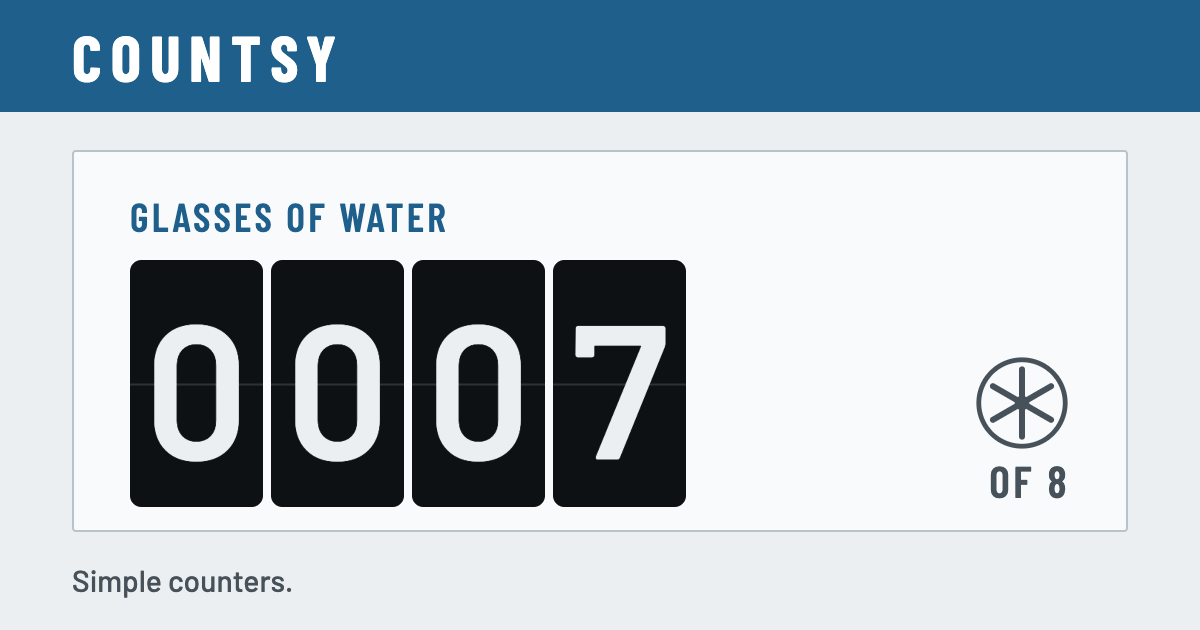
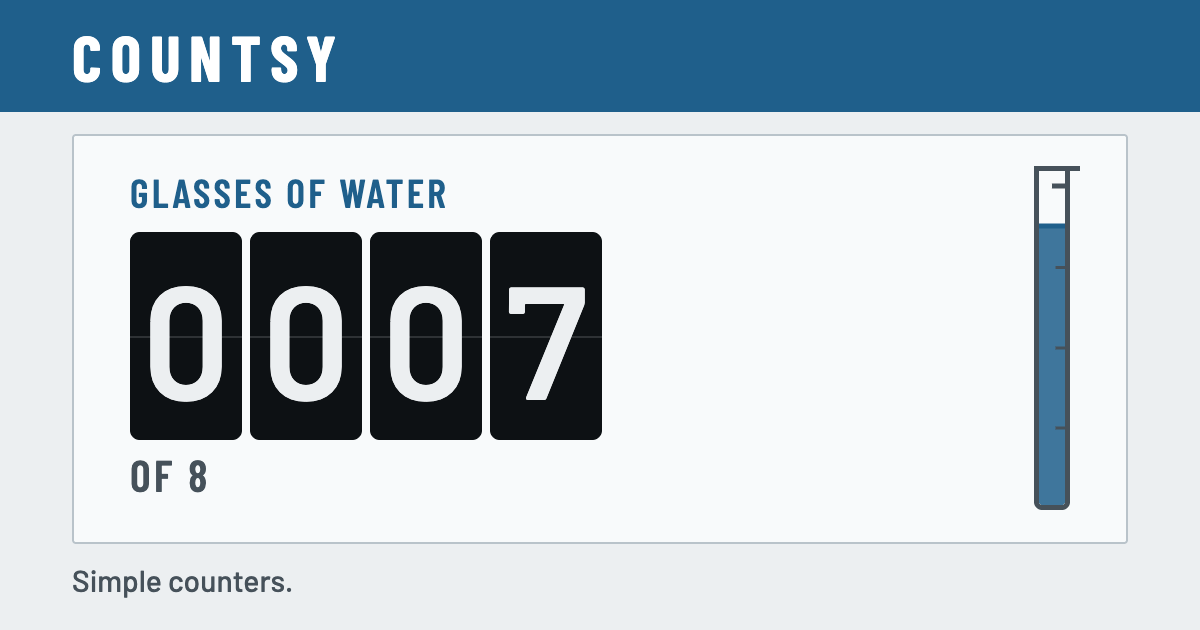
feat(brand): swap wheel mark for glass gauge
The goal indicator is now a glass gauge, so bring the brand assets
in line and drop the last uses of the star-wheel.

- Favicon: a white open-topped glass with a lip, two-thirds full, on
  the meter-blue tile; checked for legibility at 16px.
- Social image: re-render og-image.png with the card laid out like
  the real one, with the glass down the right edge filled to 7 of 8.
- design.json: Goal Gauge component and the gauge-level motion
  replace Flow Indicator and meter-spin; the narrative matches
  DESIGN.md.
- DESIGN.md and PROVENANCE.md describe the new favicon and record
  the redraw.

Sites that cache link previews may keep the old image for a while.

Changed region(s): [[0.0617, 0.2111, 0.9558, 0.8746]]

diff --git a/.impeccable/assets/og-image.html b/.impeccable/assets/og-image.html
@@ -8,25 +8,38 @@
 *{box-sizing:border-box;margin:0}
 body{width:1200px;height:630px;background:#eceff1;color:#14181c;font-family:"Barlow",sans-serif;overflow:hidden}
 .plate{height:112px;background:#1f5f8b;color:#fff;display:flex;align-items:center;padding:0 72px;font:700 64px "Barlow Condensed";letter-spacing:.14em;text-transform:uppercase}
-.card{position:absolute;left:72px;top:150px;width:1056px;height:382px;background:#f8fafb;border:2px solid #b9c3ca;border-radius:4px;padding:40px 56px}
+.card{position:absolute;left:72px;top:134px;width:1056px;height:410px;background:#f8fafb;border:2px solid #b9c3ca;border-radius:4px;padding:32px 56px}
 .label{font:600 40px "Barlow Condensed";letter-spacing:.08em;text-transform:uppercase;color:#1f5f8b}
-.row{display:flex;align-items:flex-end;justify-content:space-between;margin-top:20px}
-.tiles{display:flex;gap:8px;font:600 190px/1 "Barlow";font-variant-numeric:tabular-nums}
+.card{display:flex;gap:56px}
+.main{flex:1}
+.tiles{display:flex;gap:8px;margin-top:16px;font:600 160px/1 "Barlow";font-variant-numeric:tabular-nums}
 .tile{position:relative;width:.7em;height:1.3em;background:#0d1114;color:#eceff1;display:flex;align-items:center;justify-content:center;border-radius:.06em;overflow:hidden}
 .tile:after{content:"";position:absolute;left:0;right:0;top:50%;height:2px;background:rgba(236,239,241,.15)}
-.side{text-align:right;color:#46515a}
-.side .of{font:600 44px "Barlow Condensed";letter-spacing:.08em;text-transform:uppercase}
+.of{margin-top:8px;font:600 44px "Barlow Condensed";letter-spacing:.08em;text-transform:uppercase;color:#46515a}
+.glass{position:relative;width:36px;height:100%}
+.glass .water{position:absolute;left:0;right:0;bottom:0;background:rgba(31,95,139,.85);border-top:5px solid #1f5f8b}
+.glass:before{content:"";position:absolute;inset:0;border:5px solid #46515a;border-top:0;border-radius:0 0 8px 8px;z-index:1}
+.glass .water{left:5px;right:5px;bottom:5px;border-radius:0 0 3px 3px}
+.lip{position:absolute;top:-2px;left:0;right:-10px;height:5px;background:#46515a}
+.brim{position:absolute;right:0;bottom:94%;width:50%;height:5px;background:#46515a}
+.tick{position:absolute;right:0;width:40%;height:3px;background:#46515a}
 .tag{position:absolute;left:72px;bottom:32px;font:500 30px "Barlow";color:#46515a}
 </style></head><body>
 <div class="plate">Countsy</div>
 <div class="card">
-  <div class="label">Glasses of water</div>
-  <div class="row">
+  <div class="main">
+    <div class="label">Glasses of water</div>
     <div class="tiles"><span class="tile">0</span><span class="tile">0</span><span class="tile">0</span><span class="tile">7</span></div>
-    <div class="side">
-      <svg width="96" height="96" viewBox="0 0 40 40" style="color:#46515a"><circle cx="20" cy="20" r="18" fill="none" stroke="currentColor" stroke-width="2"/><g stroke="currentColor" stroke-width="2.5" stroke-linecap="round"><line x1="20" y1="6" x2="20" y2="34"/><line x1="20" y1="6" x2="20" y2="34" transform="rotate(60 20 20)"/><line x1="20" y1="6" x2="20" y2="34" transform="rotate(120 20 20)"/></g><circle cx="20" cy="20" r="3" fill="currentColor"/></svg>
-      <div class="of">of 8</div>
-    </div>
+    <div class="of">of 8</div>
+  </div>
+  <!-- goal gauge: 7 of 8 = 87.5% of the brim, brim at 94% -->
+  <div class="glass">
+    <div class="water" style="height:82.25%"></div>
+    <div class="lip"></div>
+    <div class="brim"></div>
+    <div class="tick" style="bottom:23.5%"></div>
+    <div class="tick" style="bottom:47%"></div>
+    <div class="tick" style="bottom:70.5%"></div>
   </div>
 </div>
 <div class="tag">Simple counters.</div>

diff --git a/.impeccable/assets/PROVENANCE.md b/.impeccable/assets/PROVENANCE.md
@@ -3,8 +3,8 @@
 ## public/og-image.png (1200x630)
 - Made 2026-11-10 by Claude (Claude Code session) for the Water-Meter Register redesign.
 - Source: `.impeccable/assets/og-image.html`, rendered in Chromium via Playwright at 1200x630, CSS scale, viewport screenshot.
-- Inputs: palette tokens from `src/styles/index.css` (light theme), Barlow and Barlow Condensed from `@fontsource`, and the drum-tile and flow-indicator shapes from `DrumRegister.tsx` and `FlowIndicator.tsx`. No generated imagery, no stock assets.
+- Inputs: palette tokens from `src/styles/index.css` (light theme), Barlow and Barlow Condensed from `@fontsource`, and the drum-tile and goal-gauge shapes from `DrumRegister.tsx` and `GoalColumn.tsx` (re-rendered 2026-11-11 when the gauge replaced the star-wheel). No generated imagery, no stock assets.
 - Replaces the earlier crow image (Pixabay, Mohamed Hassan), which was dropped as a design anti-goal.
 
 ## public/favicon.svg
-- Hand-written SVG, same session. The flow-indicator star-wheel mark on a meter-blue (#1f5f8b) tile. Replaces the Vite default logo.
+- Hand-written SVG. A white open-topped measuring glass with a lip, two-thirds full, on a meter-blue (#1f5f8b) 6px-rounded tile, after the goal gauge. Redrawn 2026-11-11; it replaced the star-wheel mark, which had replaced the Vite default logo.

diff --git a/DESIGN.md b/DESIGN.md
@@ -179,7 +179,7 @@ Flat. There are no shadows; the toast explicitly removes its shadow. Depth comes
 
 ## Shapes
 
-Barely-rounded plates: 2px corners on cards, buttons, inputs, drawer items and toasts, with 2px outlines on controls and 1px on cards. Drum tiles are 0.7em wide by 1.3em tall with a 0.06em corner and a 1px mid-line seam at 15% tile-ink, set with 3px gaps. The goal gauge is a 14px open-topped glass with 2px sides and a 3px rounded bottom. The favicon is still the old circled three-spoke star-wheel in white on a meter-blue 6px-rounded square.
+Barely-rounded plates: 2px corners on cards, buttons, inputs, drawer items and toasts, with 2px outlines on controls and 1px on cards. Drum tiles are 0.7em wide by 1.3em tall with a 0.06em corner and a 1px mid-line seam at 15% tile-ink, set with 3px gaps. The goal gauge is a 14px open-topped glass with 2px sides and a 3px rounded bottom. The favicon repeats the glass, two-thirds full, in white on a meter-blue 6px-rounded square.
 
 ## Components
 
